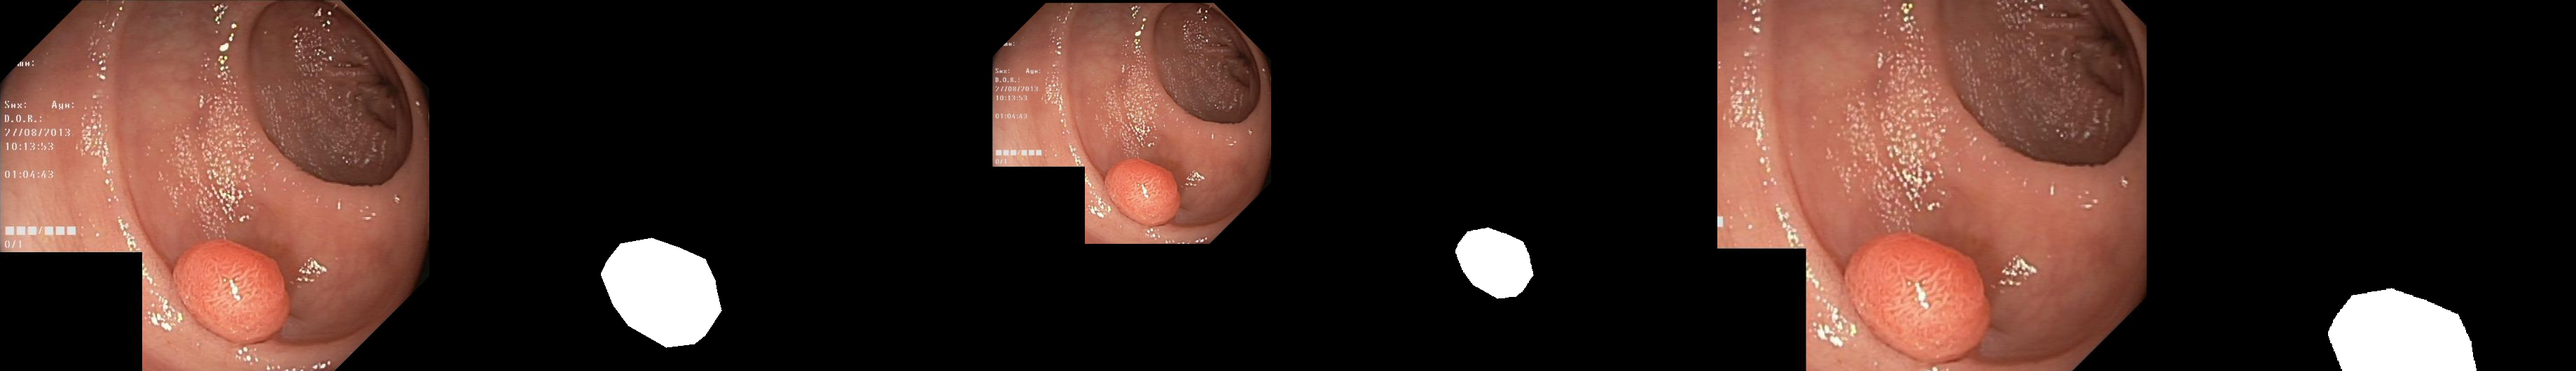
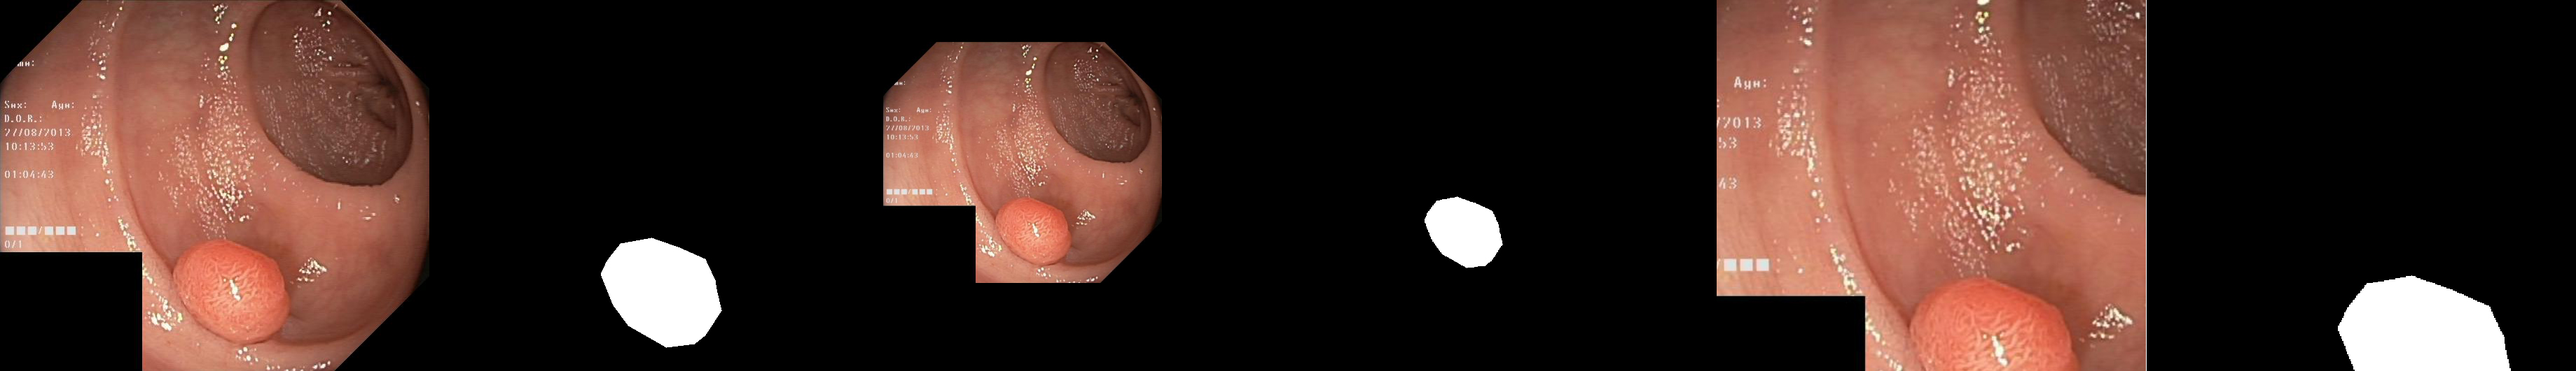
fix bug (scale.py)

diff --git a/aug_function/scale.py b/aug_function/scale.py
@@ -1,19 +1,15 @@
 import cv2
 import numpy as np
-def scale(img, factor=1,interpolation=1):
+def scale(img,mask,factor=1):
     """
     按比例放大或缩小图像.
-    :param img:符合Opencv读入格式,unit8类型.
+    :param img: color-RGB-[H,W,C]
+    :param mask:grayscale-[H,W]
     :param factor: 缩放因子,值范围建议(不强制)在(0,2~]
            1为返回原图
-    :param interpolation:
-           INTER_NEAREST = 0
-           INTER_LINEAR = 1
-           INTER_CUBIC = 2
-           INTER_AREA = 3
     """
     if factor ==1 :
-        return img
+        return img,mask
     elif factor==0:
         raise ValueError('scale_factor != 0')
 
@@ -21,27 +17,22 @@ def scale(img, factor=1,interpolation=1):
     new_h,new_w = int(h * factor) , int(w * factor)
 
     #缩放图像
-    img = cv2.resize(img,(new_w,new_h),interpolation=interpolation)
+    img = cv2.resize(img,(new_w,new_h),interpolation=cv2.INTER_LINEAR)
+    mask = cv2.resize(mask,(new_w,new_h),interpolation=cv2.INTER_NEAREST)
 
     # padding or crop
     x, y = int(np.random.uniform(0, abs(new_w - w))), int(np.random.uniform(0, abs(new_h - h)))
 
     if factor < 1.0:
         # padding
-        if img.ndim == 3:
-            img_padding = np.zeros([h, w, 3], dtype=np.uint8)
-            img_padding[y:y + new_h, x:x + new_w, :] = img
-            return img_padding
-        elif img.ndim == 2:
-            img_padding = np.zeros([h, w], dtype=np.uint8)
-            img_padding[y:y + new_h, x:x + new_w] = img
-            return img_padding
+        img_padding = np.zeros([h, w, 3], dtype=np.uint8)
+        img_padding[y:y + new_h, x:x + new_w, :] = img
+        mask_padding = np.zeros([h, w], dtype=np.uint8)
+        mask_padding[y:y + new_h, x:x + new_w] = mask
+        return img_padding,mask_padding
     elif factor > 1.0:
         # crop
-        if img.ndim == 3:
-            img_crop = img[y:y + h, x:x + w, :]
-            return img_crop
-        elif img.ndim == 2:
-            img_crop = img[y:y + h, x:x + w]
-            return img_crop
+        img_crop = img[y:y + h, x:x + w, :]
+        mask_crop = mask[y:y + h, x:x + w]
+        return img_crop,mask_crop
 

diff --git a/aug_transform_for_pytorch/RandomScale.py b/aug_transform_for_pytorch/RandomScale.py
@@ -11,6 +11,5 @@ class RandomScale(object):
         img = img_mask[0]
         mask = img_mask[1]
         random_scale = random.choice(self.scales)
-        img = scale(img,random_scale,1)
-        mask = scale(mask,random_scale,0)
+        img,mask = scale(img,mask,random_scale,)
         return (img,mask)

diff --git a/run.py b/run.py
@@ -45,9 +45,8 @@ _,label2 = cv2.threshold(label2,127,255,cv2.THRESH_BINARY)
 
 imgShow(image)
 imgShow(label)
-img = scale(image,1.25,1)
-label = scale(label,1.25,0)
-imgShow(img)
+image,label = scale(image,label,1.45)
+imgShow(image)
 imgShow(label)
 while True:
     cv2.waitKey(100000)
